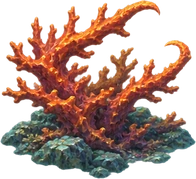
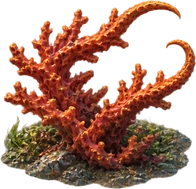
Refine photographic materials and terrain integration

diff --git a/src/render/diveart.js b/src/render/diveart.js
@@ -60,7 +60,7 @@ export function drawDiveBed(ctx, obj, cx, cy, art = null) {
     const w = art.naturalWidth * scale, h = art.naturalHeight * scale;
     // Let the actual water colour through the stone and coral. The bright
     // buoy is drawn separately at full opacity on the surface.
-    ctx.globalAlpha *= 0.83;
+    ctx.globalAlpha *= 0.89;
     ctx.drawImage(art, cx - w / 2, cy + foot - h, w, h);
   } else {
     // A muted patch of sand and the reef's own colour while its art loads.
@@ -115,7 +115,7 @@ export function drawDiveMarker(ctx, obj, cx, cy, time = 0, reduced = false, sele
   drawDiveRipples(ctx, obj, cx, cy, time, reduced);
   ctx.save();
   if (selected) {
-    ctx.strokeStyle = 'rgba(90,88,66,0.52)'; ctx.lineWidth = 2.6;
+    ctx.strokeStyle = 'rgba(34,48,74,0.52)'; ctx.lineWidth = 2.6;
     ctx.beginPath(); ctx.ellipse(x, waterY, 9.5, 3.8, 0, 0, Math.PI * 2); ctx.stroke();
     ctx.strokeStyle = '#ffdf94'; ctx.lineWidth = 1.15; ctx.stroke();
   }

diff --git a/src/render/digart.js b/src/render/digart.js
@@ -13,7 +13,7 @@ export function drawDigGround(ctx, cx, cy, selected) {
   ctx.beginPath(); ctx.ellipse(cx, y - 1.4, 15.5, 3.2, 0, 0, Math.PI * 2); ctx.fill();
   if (selected) {
     // Two exposed edges of the work marker stay visible around the earth.
-    ctx.strokeStyle = 'rgba(75,61,42,0.52)'; ctx.lineWidth = 2.7;
+    ctx.strokeStyle = 'rgba(34,48,74,0.52)'; ctx.lineWidth = 2.7;
     ctx.beginPath(); ctx.ellipse(cx, y - 0.1, 17.7, 3.8, 0, 0, Math.PI); ctx.stroke();
     ctx.strokeStyle = '#ffdd91'; ctx.lineWidth = 1.25; ctx.stroke();
   }
